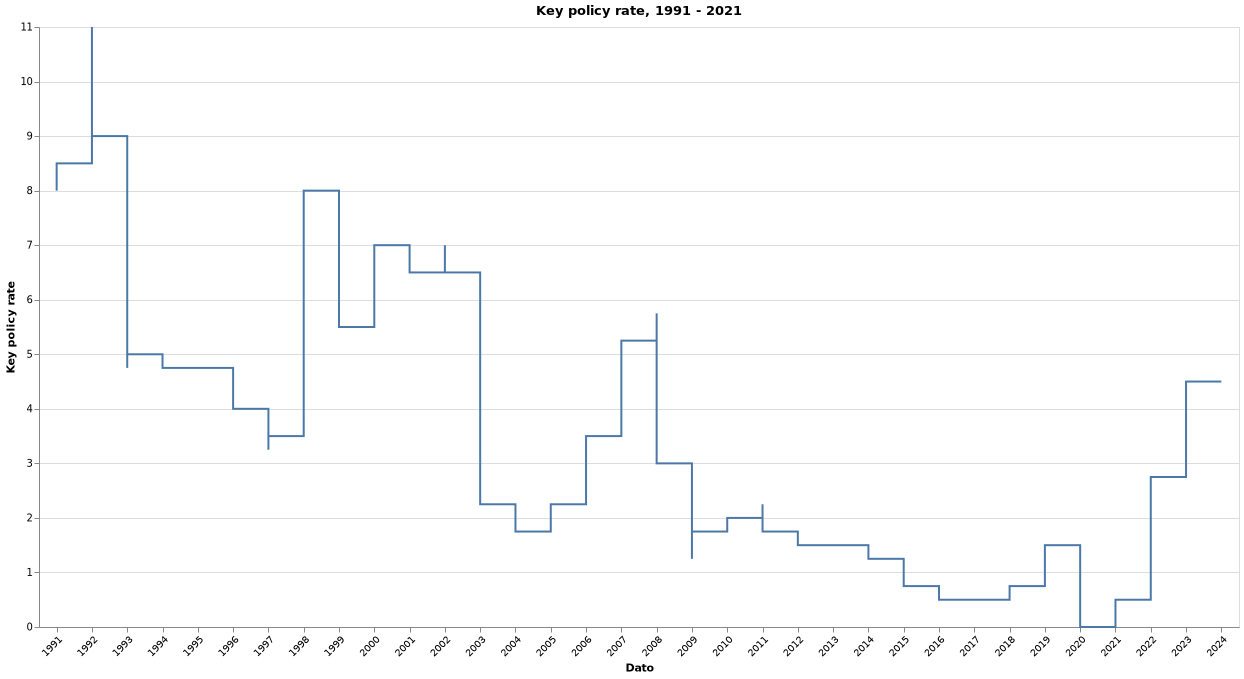
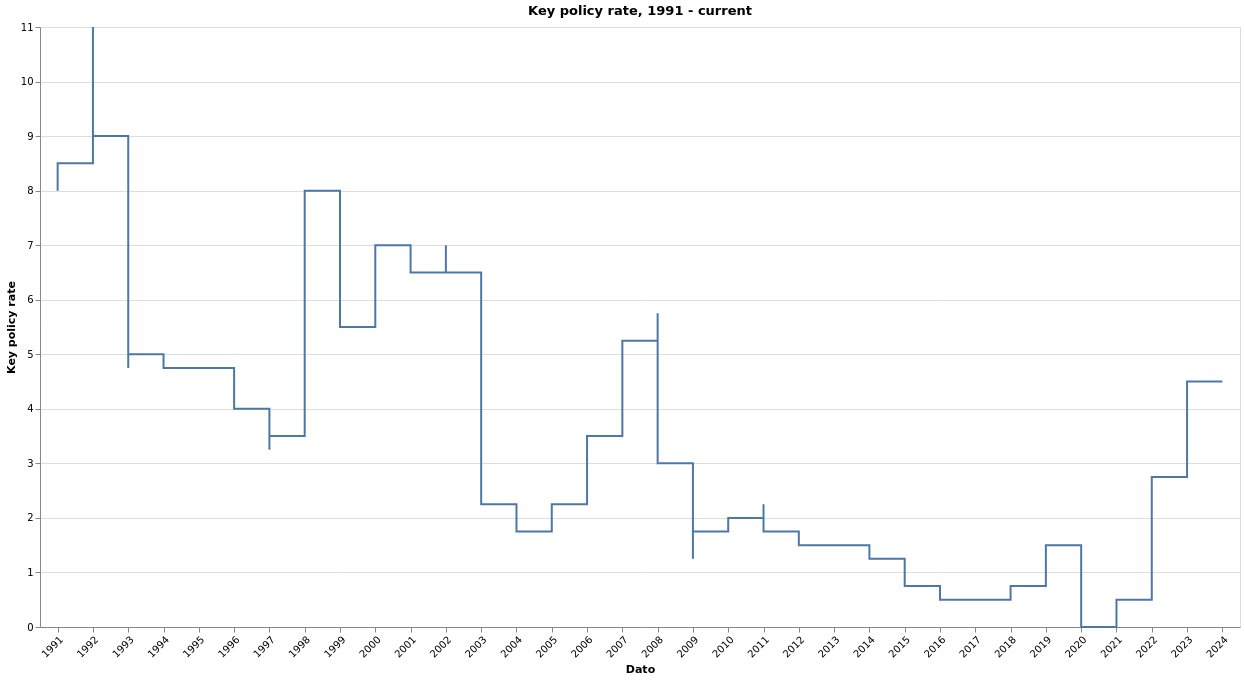
Update key policy rate chart title

diff --git a/graphs.py b/graphs.py
@@ -58,7 +58,7 @@ def keyPolicyRate():
     df = pd.read_csv("./data/no_keyPolicyRate.csv", parse_dates=["Date"])
 
     chart = (
-        alt.Chart(df, title="Key policy rate, 1991 - 2021")
+        alt.Chart(df, title="Key policy rate, 1991 - current")
         .mark_line()
         .encode(
             x=alt.X("year(Date):O", axis=alt.Axis(title="Dato", labelAngle=-45)),
